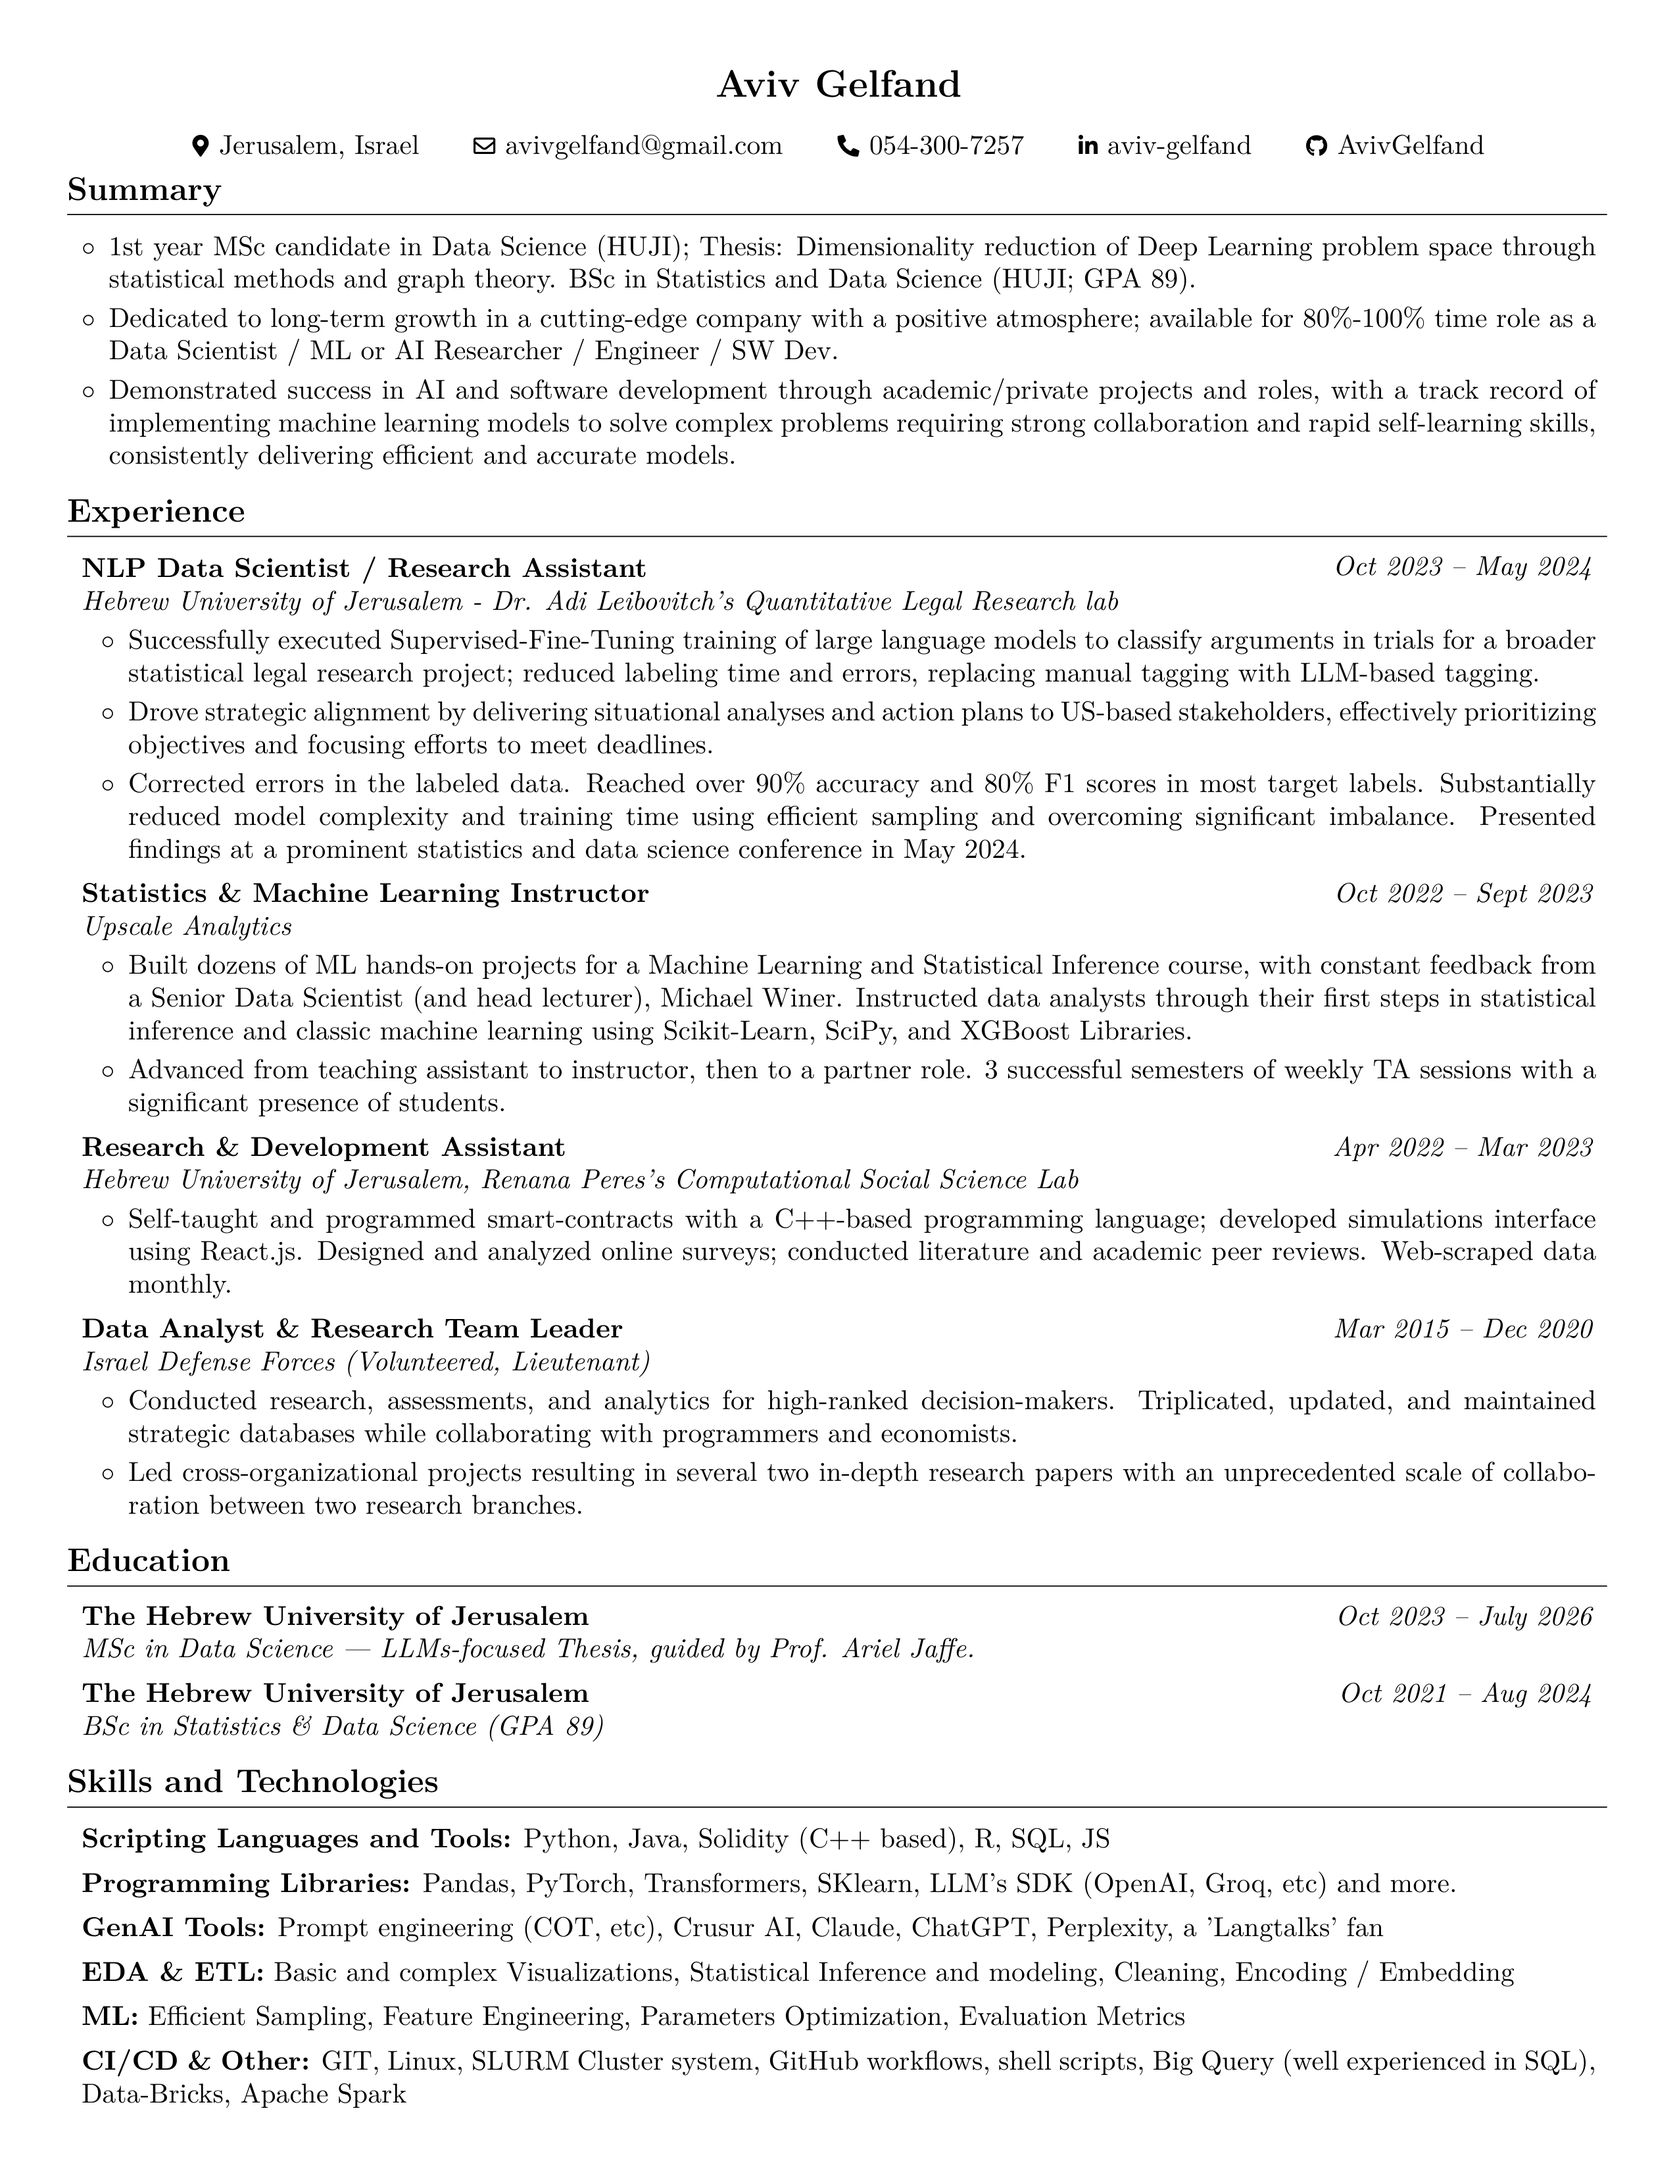
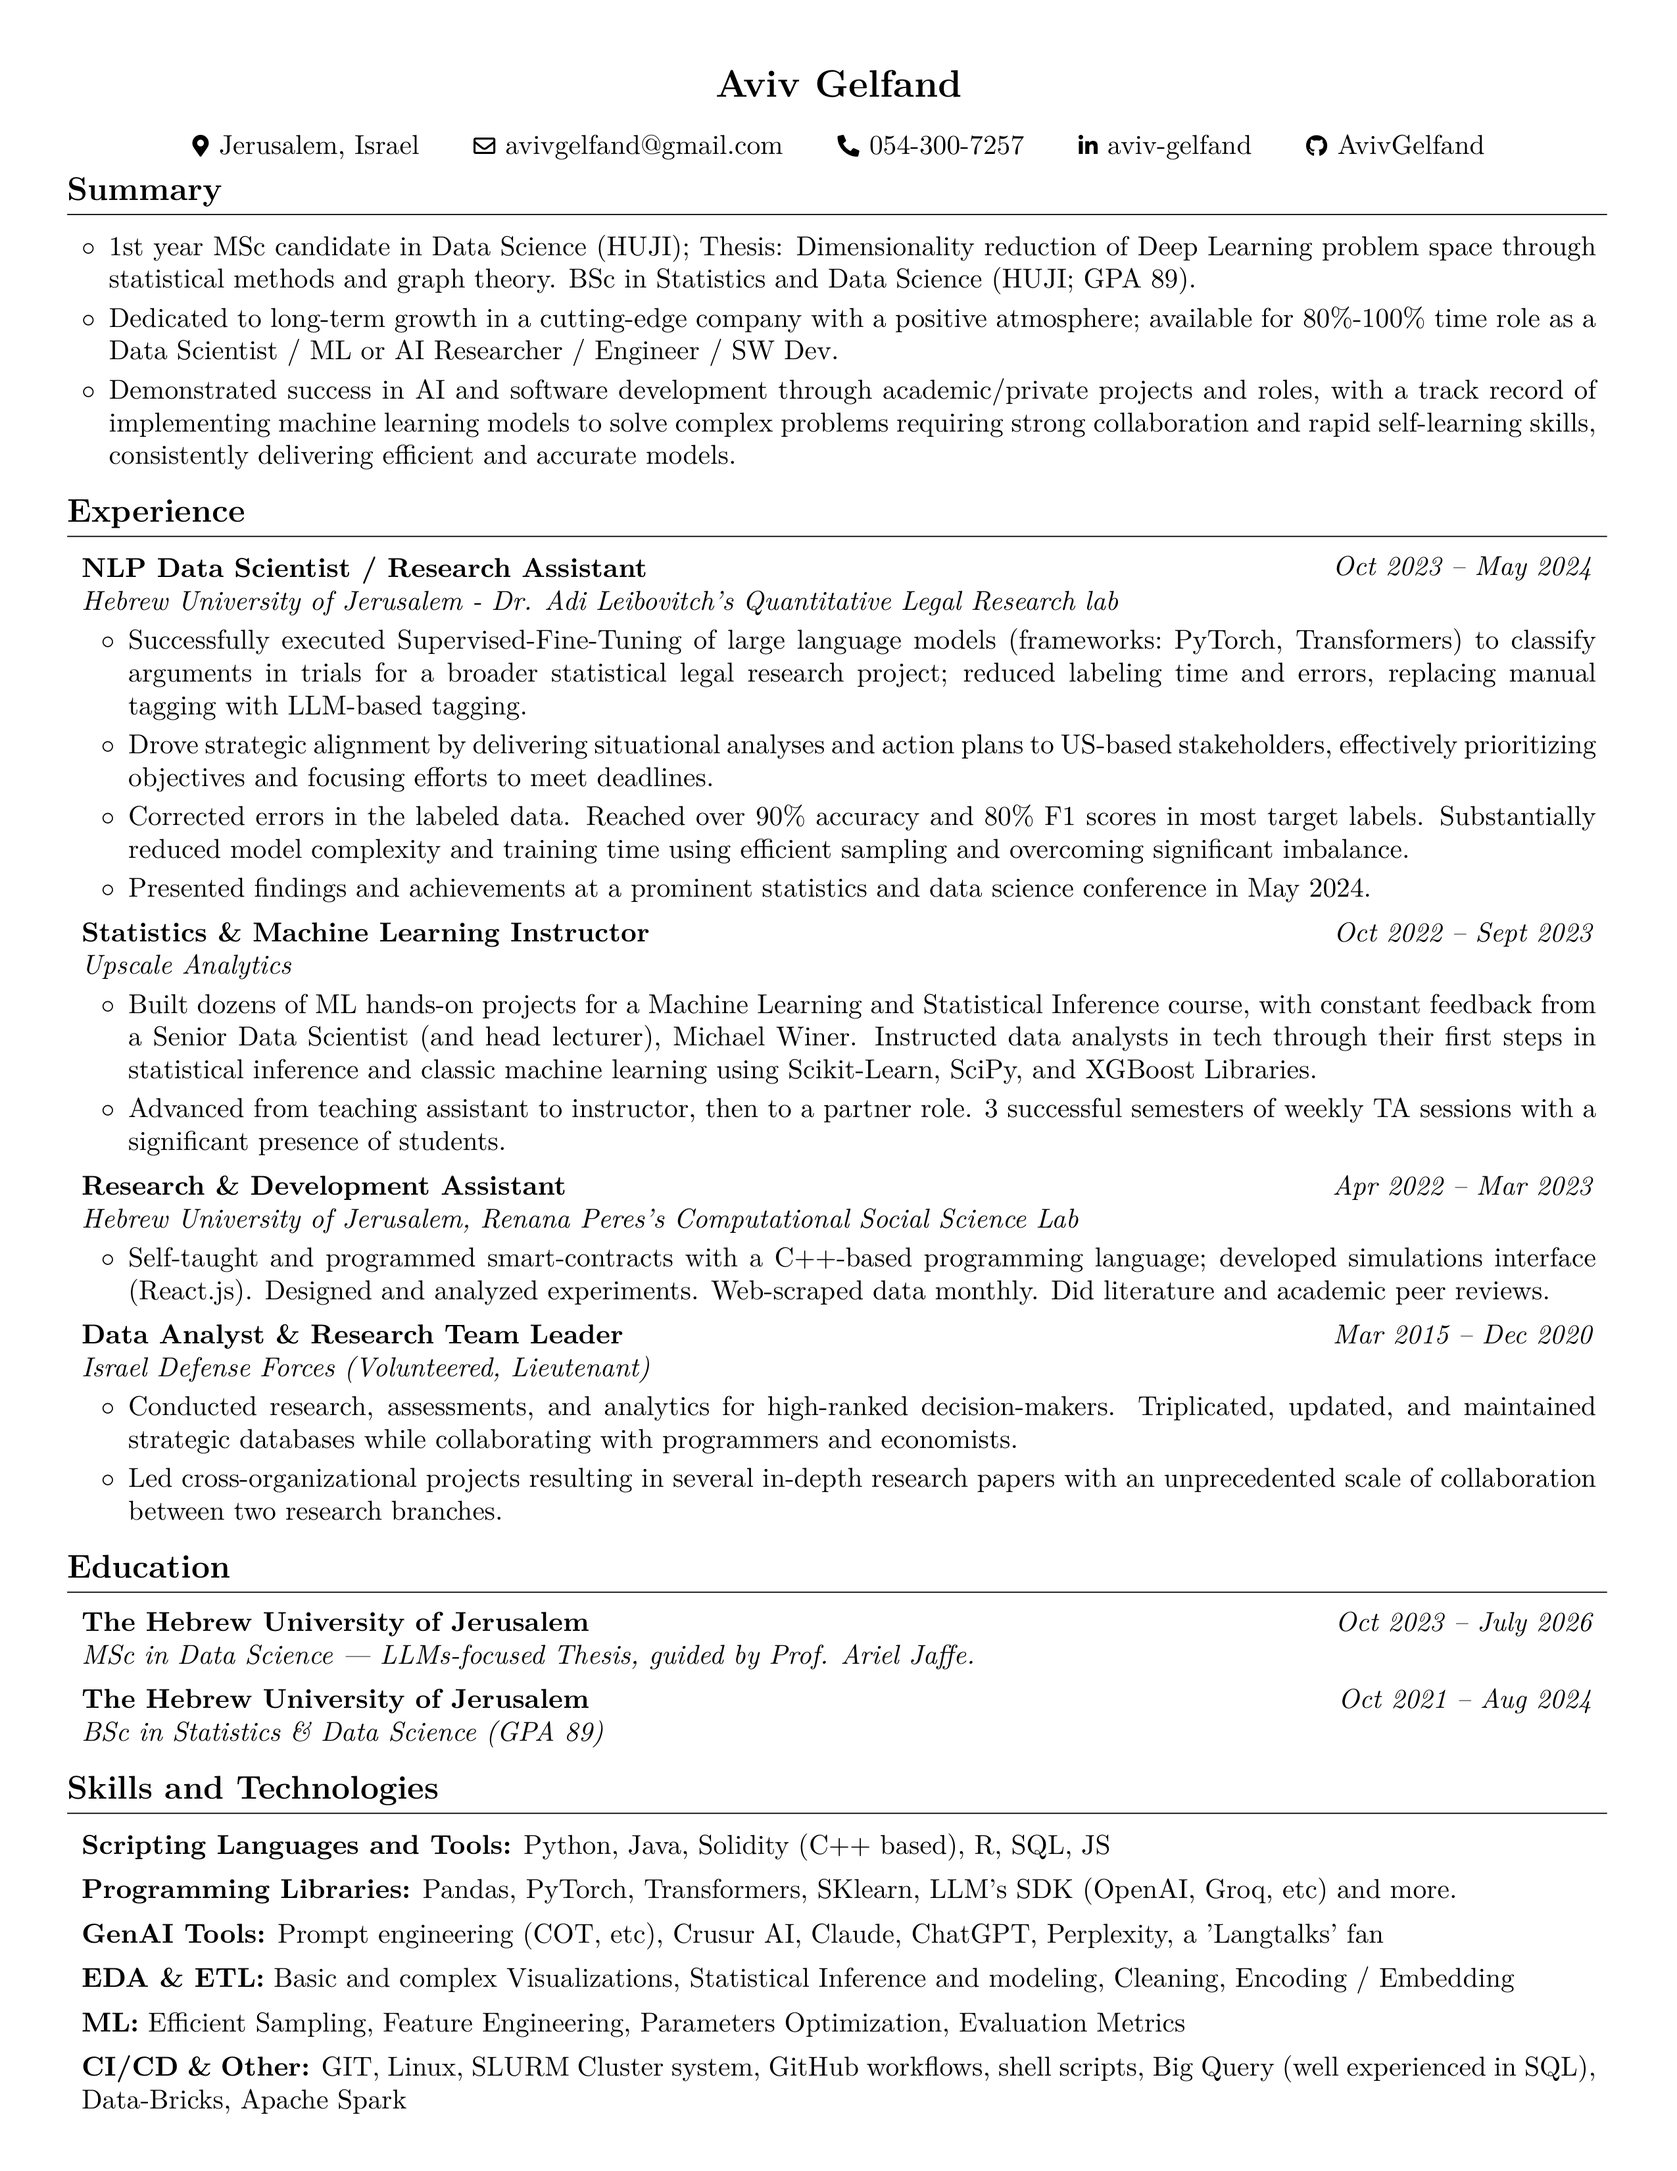
Render the latest CV

Changed region(s): [[0.031, 0.2809, 0.9604, 0.9676], [0.8055, 0.7179, 0.9604, 0.7491], [0.5267, 0.7491, 0.5886, 0.7803]]

diff --git a/Aviv_Gelfand_CV.html b/Aviv_Gelfand_CV.html
@@ -50,26 +50,27 @@
         <h2>Hebrew University of Jerusalem - Dr. Adi Leibovitch's Quantitative Legal Research lab, NLP Data Scientist / Research Assistant</h2>
         <ul>
         <li>Oct 2023 – May 2024</li>
-        <li>Successfully executed Supervised-Fine-Tuning training of large language models to classify arguments in trials for a broader statistical legal research project; reduced labeling time and errors, replacing manual tagging with LLM-based tagging.</li>
+        <li>Successfully executed Supervised-Fine-Tuning of large language models (frameworks$:$ PyTorch, Transformers) to classify arguments in trials for a broader statistical legal research project; reduced labeling time and errors, replacing manual tagging with LLM-based tagging.</li>
         <li>Drove strategic alignment by delivering situational analyses and action plans to US-based stakeholders, effectively prioritizing objectives and focusing efforts to meet deadlines.</li>
-        <li>Corrected errors in the labeled data. Reached over 90% accuracy and 80% F1 scores in most target labels. Substantially reduced model complexity and training time using efficient sampling and overcoming significant imbalance. Presented findings at a prominent statistics and data science conference in May 2024.</li>
+        <li>Corrected errors in the labeled data. Reached over 90% accuracy and 80% F1 scores in most target labels. Substantially reduced model complexity and training time using efficient sampling and overcoming significant imbalance.</li>
+        <li>Presented findings and achievements at a prominent statistics and data science conference in May 2024.</li>
         </ul>
         <h2>Upscale Analytics, Statistics &amp; Machine Learning Instructor</h2>
         <ul>
         <li>Oct 2022 – Sept 2023</li>
-        <li>Built dozens of ML hands-on projects for a Machine Learning and Statistical Inference course, with constant feedback from a Senior Data Scientist (and head lecturer), Michael Winer. Instructed data analysts through their first steps in statistical inference and classic machine learning using Scikit-Learn, SciPy, and XGBoost Libraries.</li>
+        <li>Built dozens of ML hands-on projects for a Machine Learning and Statistical Inference course, with constant feedback from a Senior Data Scientist (and head lecturer), Michael Winer. Instructed data analysts in tech through their first steps in statistical inference and classic machine learning using Scikit-Learn, SciPy, and XGBoost Libraries.</li>
         <li>Advanced from teaching assistant to instructor, then to a partner role. 3 successful semesters of weekly TA sessions with a significant presence of students.</li>
         </ul>
         <h2>Hebrew University of Jerusalem, Renana Peres's Computational Social Science Lab, Research &amp; Development Assistant</h2>
         <ul>
         <li>Apr 2022 – Mar 2023</li>
-        <li>Self-taught and programmed smart-contracts with a C++-based programming language; developed simulations interface using React.js. Designed and analyzed online surveys; conducted literature and academic peer reviews. Web-scraped data monthly.</li>
+        <li>Self-taught and programmed smart-contracts with a C++-based programming language; developed simulations interface (React.js). Designed and analyzed experiments. Web-scraped data monthly. Did literature and academic peer reviews.</li>
         </ul>
         <h2>Israel Defense Forces (Volunteered, Lieutenant), Data Analyst &amp; Research Team Leader</h2>
         <ul>
         <li>Mar 2015 – Dec 2020</li>
         <li>Conducted research, assessments, and analytics for high-ranked decision-makers. Triplicated, updated, and maintained strategic databases while collaborating with programmers and economists.</li>
-        <li>Led cross-organizational projects resulting in several two in-depth research papers with an unprecedented scale of collaboration between two research branches.</li>
+        <li>Led cross-organizational projects resulting in several in-depth research papers with an unprecedented scale of collaboration between two research branches.</li>
         </ul>
         <h1>Education</h1>
         <h2>The Hebrew University of Jerusalem, MSc in Data Science | LLMs-focused Thesis, guided by Prof. Ariel Jaffe.</h2>

diff --git a/Aviv_Gelfand_CV.tex b/Aviv_Gelfand_CV.tex
@@ -208,9 +208,10 @@
         \vspace{0.08 cm}
         \begin{onecolentry}
             \begin{highlights}
-                \item Successfully executed Supervised-Fine-Tuning training of large language models to classify arguments in trials for a broader statistical legal research project; reduced labeling time and errors, replacing manual tagging with LLM-based tagging.
+                \item Successfully executed Supervised-Fine-Tuning of large language models (frameworks$:$ PyTorch, Transformers) to classify arguments in trials for a broader statistical legal research project; reduced labeling time and errors, replacing manual tagging with LLM-based tagging.
                 \item Drove strategic alignment by delivering situational analyses and action plans to US-based stakeholders, effectively prioritizing objectives and focusing efforts to meet deadlines.
-                \item Corrected errors in the labeled data. Reached over 90\% accuracy and 80\% F1 scores in most target labels. Substantially reduced model complexity and training time using efficient sampling and overcoming significant imbalance. Presented findings at a prominent statistics and data science conference in May 2024.
+                \item Corrected errors in the labeled data. Reached over 90\% accuracy and 80\% F1 scores in most target labels. Substantially reduced model complexity and training time using efficient sampling and overcoming significant imbalance.
+                \item Presented findings and achievements at a prominent statistics and data science conference in May 2024.
             \end{highlights}
         \end{onecolentry}
 
@@ -229,7 +230,7 @@
         \vspace{0.08 cm}
         \begin{onecolentry}
             \begin{highlights}
-                \item Built dozens of ML hands-on projects for a Machine Learning and Statistical Inference course, with constant feedback from a Senior Data Scientist (and head lecturer), Michael Winer. Instructed data analysts through their first steps in statistical inference and classic machine learning using Scikit-Learn, SciPy, and XGBoost Libraries.
+                \item Built dozens of ML hands-on projects for a Machine Learning and Statistical Inference course, with constant feedback from a Senior Data Scientist (and head lecturer), Michael Winer. Instructed data analysts in tech through their first steps in statistical inference and classic machine learning using Scikit-Learn, SciPy, and XGBoost Libraries.
                 \item Advanced from teaching assistant to instructor, then to a partner role. 3 successful semesters of weekly TA sessions with a significant presence of students.
             \end{highlights}
         \end{onecolentry}
@@ -249,7 +250,7 @@
         \vspace{0.08 cm}
         \begin{onecolentry}
             \begin{highlights}
-                \item Self-taught and programmed smart-contracts with a C++-based programming language; developed simulations interface using React.js. Designed and analyzed online surveys; conducted literature and academic peer reviews. Web-scraped data monthly.
+                \item Self-taught and programmed smart-contracts with a C++-based programming language; developed simulations interface (React.js). Designed and analyzed experiments. Web-scraped data monthly. Did literature and academic peer reviews.
             \end{highlights}
         \end{onecolentry}
 
@@ -269,7 +270,7 @@
         \begin{onecolentry}
             \begin{highlights}
                 \item Conducted research, assessments, and analytics for high-ranked decision-makers. Triplicated, updated, and maintained strategic databases while collaborating with programmers and economists.
-                \item Led cross-organizational projects resulting in several two in-depth research papers with an unprecedented scale of collaboration between two research branches.
+                \item Led cross-organizational projects resulting in several in-depth research papers with an unprecedented scale of collaboration between two research branches.
             \end{highlights}
         \end{onecolentry}
 

diff --git a/README.md b/README.md
@@ -19,26 +19,27 @@
 ## Hebrew University of Jerusalem - Dr. Adi Leibovitch's Quantitative Legal Research lab, NLP Data Scientist / Research Assistant
 
 - Oct 2023 – May 2024
-- Successfully executed Supervised-Fine-Tuning training of large language models to classify arguments in trials for a broader statistical legal research project; reduced labeling time and errors, replacing manual tagging with LLM-based tagging.
+- Successfully executed Supervised-Fine-Tuning of large language models (frameworks$:$ PyTorch, Transformers) to classify arguments in trials for a broader statistical legal research project; reduced labeling time and errors, replacing manual tagging with LLM-based tagging.
 - Drove strategic alignment by delivering situational analyses and action plans to US-based stakeholders, effectively prioritizing objectives and focusing efforts to meet deadlines.
-- Corrected errors in the labeled data. Reached over 90% accuracy and 80% F1 scores in most target labels. Substantially reduced model complexity and training time using efficient sampling and overcoming significant imbalance. Presented findings at a prominent statistics and data science conference in May 2024.
+- Corrected errors in the labeled data. Reached over 90% accuracy and 80% F1 scores in most target labels. Substantially reduced model complexity and training time using efficient sampling and overcoming significant imbalance.
+- Presented findings and achievements at a prominent statistics and data science conference in May 2024.
 
 ## Upscale Analytics, Statistics & Machine Learning Instructor
 
 - Oct 2022 – Sept 2023
-- Built dozens of ML hands-on projects for a Machine Learning and Statistical Inference course, with constant feedback from a Senior Data Scientist (and head lecturer), Michael Winer. Instructed data analysts through their first steps in statistical inference and classic machine learning using Scikit-Learn, SciPy, and XGBoost Libraries.
+- Built dozens of ML hands-on projects for a Machine Learning and Statistical Inference course, with constant feedback from a Senior Data Scientist (and head lecturer), Michael Winer. Instructed data analysts in tech through their first steps in statistical inference and classic machine learning using Scikit-Learn, SciPy, and XGBoost Libraries.
 - Advanced from teaching assistant to instructor, then to a partner role. 3 successful semesters of weekly TA sessions with a significant presence of students.
 
 ## Hebrew University of Jerusalem, Renana Peres's Computational Social Science Lab, Research & Development Assistant
 
 - Apr 2022 – Mar 2023
-- Self-taught and programmed smart-contracts with a C++-based programming language; developed simulations interface using React.js. Designed and analyzed online surveys; conducted literature and academic peer reviews. Web-scraped data monthly.
+- Self-taught and programmed smart-contracts with a C++-based programming language; developed simulations interface (React.js). Designed and analyzed experiments. Web-scraped data monthly. Did literature and academic peer reviews.
 
 ## Israel Defense Forces (Volunteered, Lieutenant), Data Analyst & Research Team Leader
 
 - Mar 2015 – Dec 2020
 - Conducted research, assessments, and analytics for high-ranked decision-makers. Triplicated, updated, and maintained strategic databases while collaborating with programmers and economists.
-- Led cross-organizational projects resulting in several two in-depth research papers with an unprecedented scale of collaboration between two research branches.
+- Led cross-organizational projects resulting in several in-depth research papers with an unprecedented scale of collaboration between two research branches.
 
 # Education
 
